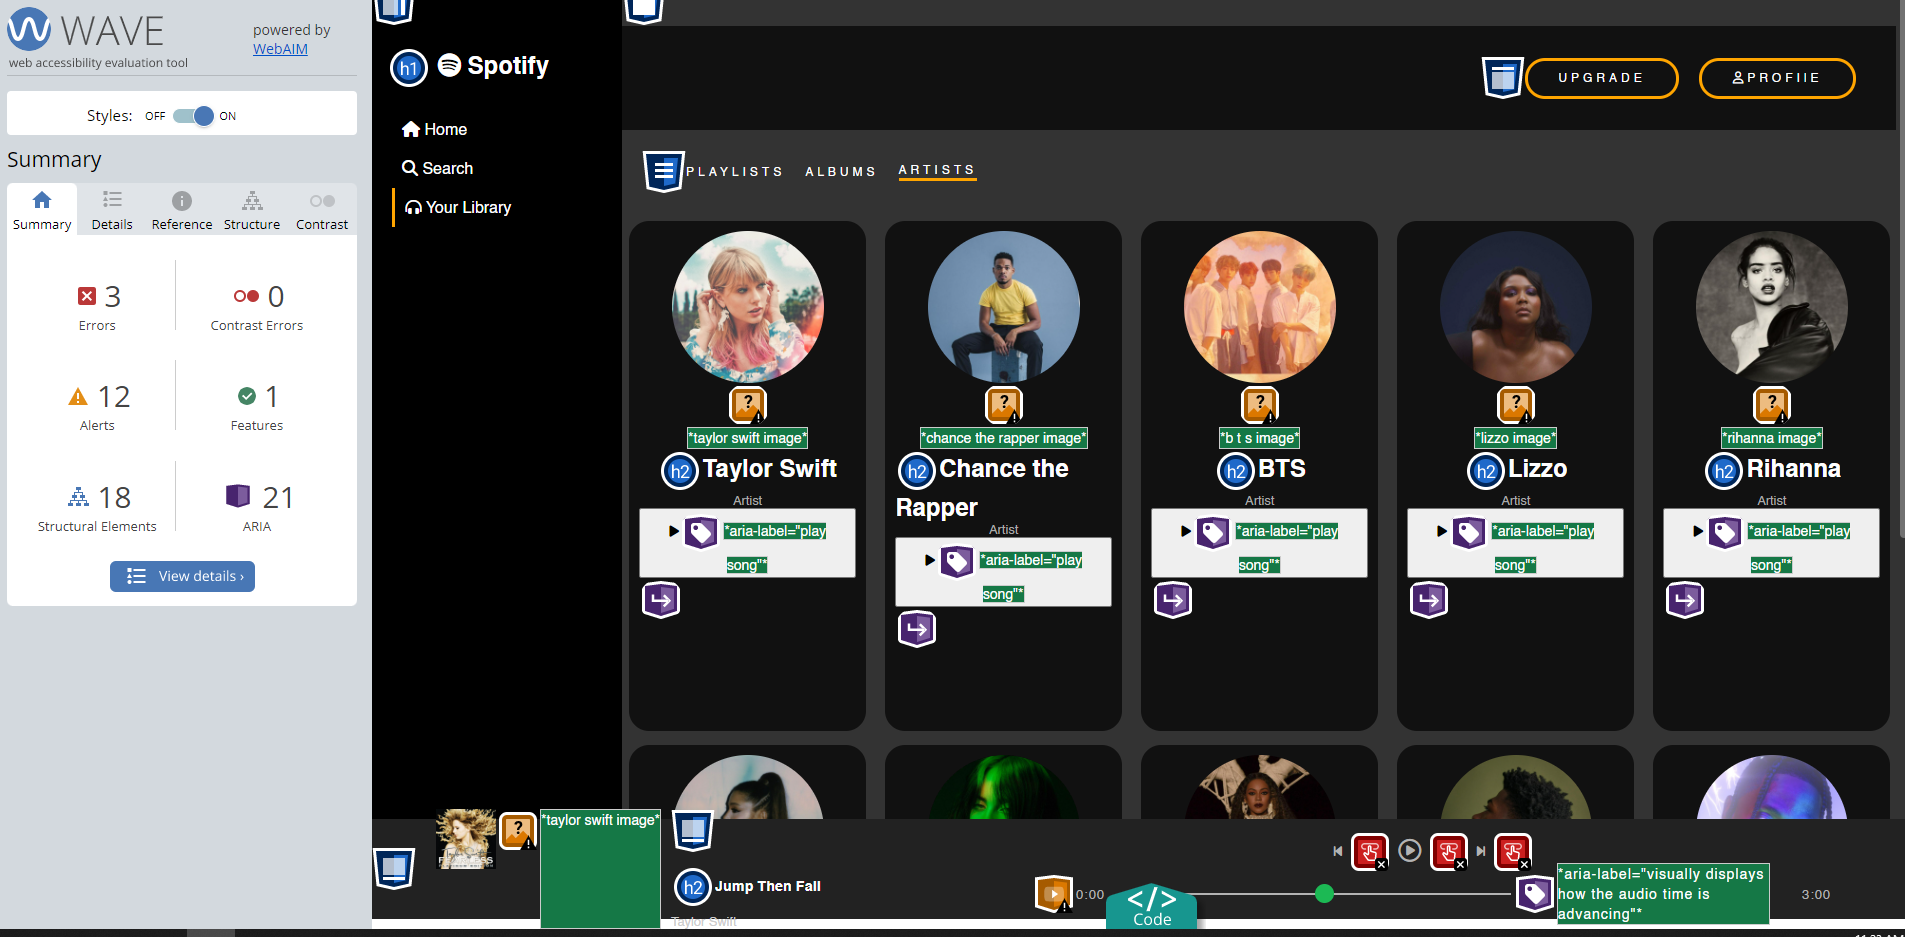
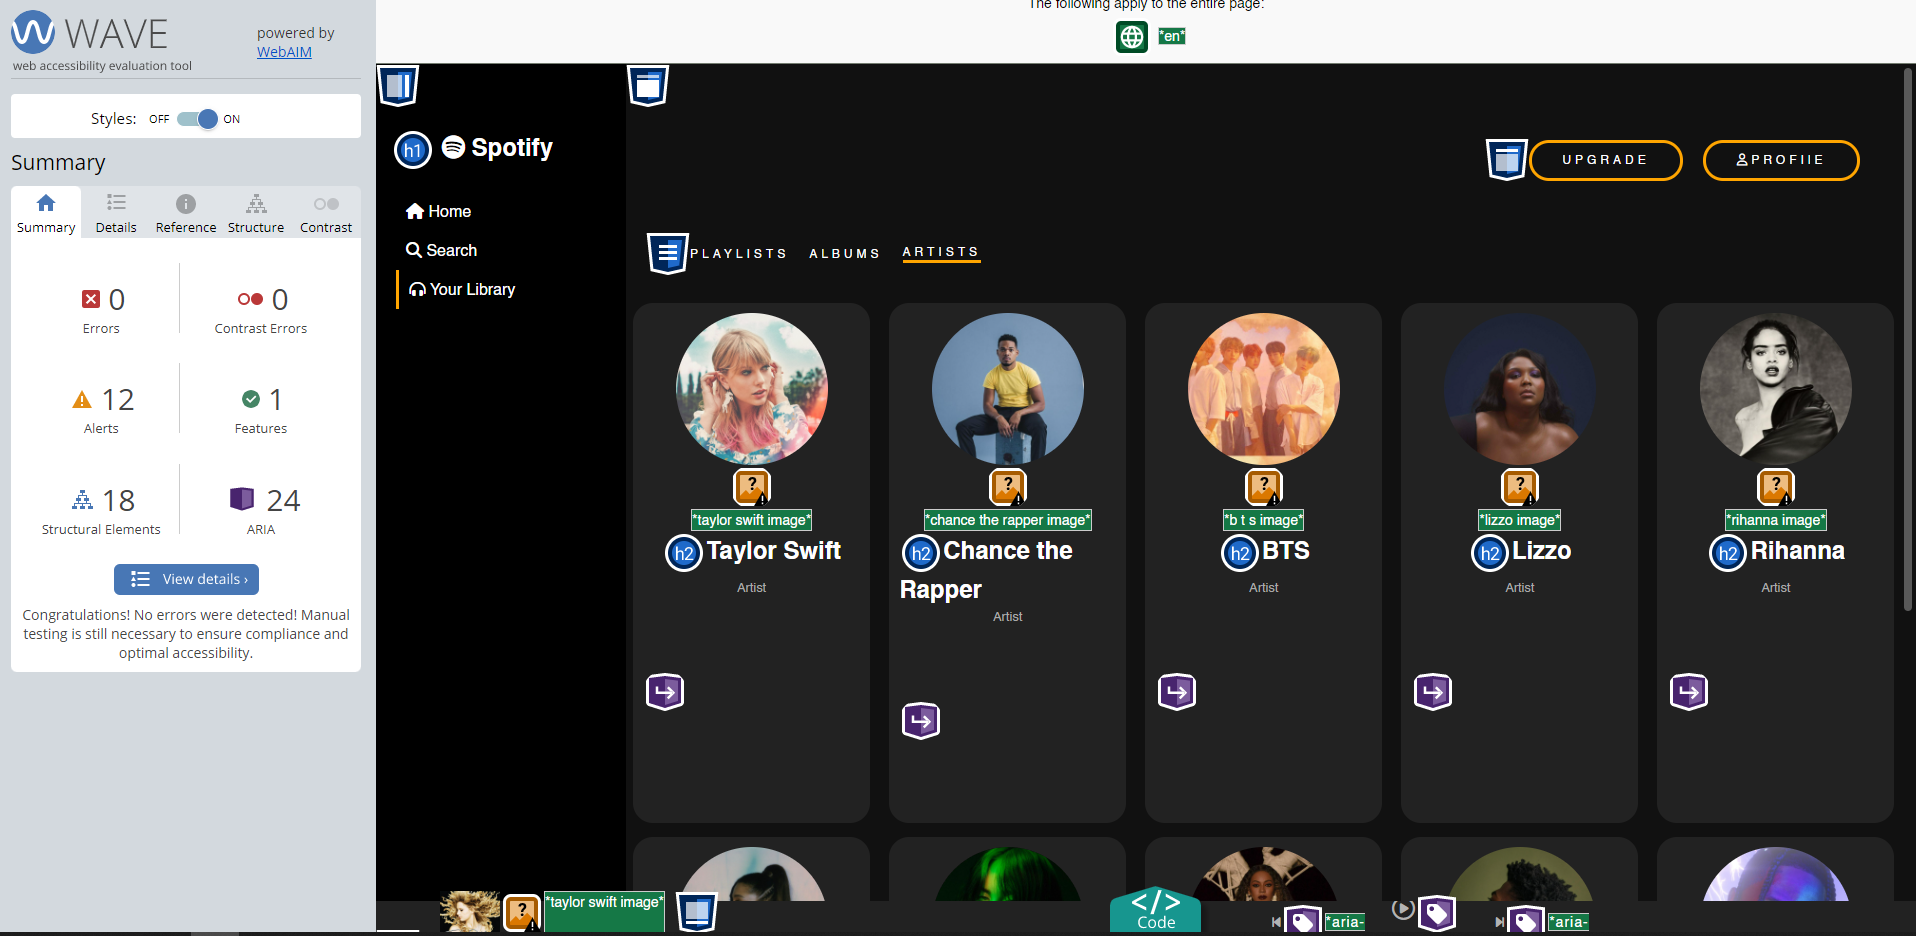
commit 2 homework2 9/24

diff --git a/homework/hw02/style.css b/homework/hw02/style.css
@@ -49,7 +49,7 @@ main {
 /*borders end*/
 
 main {
-    background: #333; /* change this back to #111 when everything else is done!!!!!!!!!!!!!!!!!!!!!!!!!!!!!!!!!11111 */
+    background: #111;
     grid-column-start: 2;
     overflow-y: auto;
     z-index: 3;
@@ -98,7 +98,11 @@ footer {
     border-left: solid 3.5px orange;
 }
 
-
+#sidebar a:hover {
+    color: orange;
+    background-color: #222;
+    border-left: solid 1.5px orange;
+}
 
 /********************************/
 /* Part B: Header & Nav Styling */
@@ -157,6 +161,10 @@ nav .selected {
     border-bottom: solid 3.5px orange;
 }
 
+nav a:hover {
+    border-bottom: solid 1.5px orange;
+}
+
 
 
 /*************************/
@@ -177,17 +185,41 @@ nav .selected {
 }
 
 #featured-content p {
+    margin-top: 5px;
+    margin-bottom: 5px;
     font-size: .8em;
     color: #aaa;
 }
 
 .artist-card {
     width: 100%;
-    background-color: #111;
+    background-color: #222;
     margin: 3%;
     padding: 10px;
     border-radius: 20px;
     padding-bottom: 80px;
+}
+
+.artist-card:hover {
+    background-color: #333;
+}
+
+.artist-card:hover button {
+    opacity: 100%;
+}
+
+
+.artist-card button {
+    display: flex;
+    flex-direction: column;
+    align-items: center;
+    justify-content: center;
+    background-color: orange;
+    font-size: 1.5em;
+    width: 70px;
+    height: 70px;
+    border-radius: 100%;
+    opacity: 0%;
 }
 
 .artist-card div{
@@ -201,9 +233,6 @@ nav .selected {
     width: 70%;
     border-radius: 100%;
 }
-
-
-
 
 
 /**************************/
@@ -249,13 +278,7 @@ nav .selected {
     }
 
     body {
-        overflow: hidden;
-        margin: 0px;
-        height: 100vh;
-        /* body tag is a grid */
-        display: grid;
         grid-template-columns: 0px auto;
-        grid-template-rows: auto 100px;
     }
 
     #upgrade {

diff --git a/homework/hw02/index.html b/homework/hw02/index.html
@@ -177,9 +177,9 @@
             </div>
             <div class="player">
                 <div class="controls">
-                    <button><i class="fas fa-step-backward"></i></button>
-                    <button><i class="far fa-play-circle"></i></button>
-                    <button><i class="fas fa-step-forward"></i></button>
+                    <button aria-label="back" onclick="stepBack()"><i class="fas fa-step-backward"></i></button>
+                    <button aria-label="play" onclick="play()"><i class="far fa-play-circle"></i></button>
+                    <button aria-label="forward" onclick="stepForward()"><i class="fas fa-step-forward"></i></button>
                 </div>
                 <div class="slider">
                     <audio preload class="audio">
